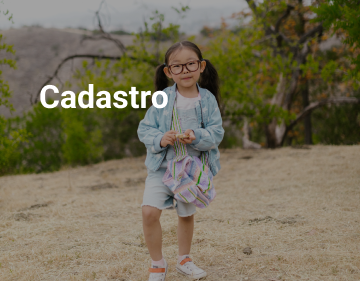
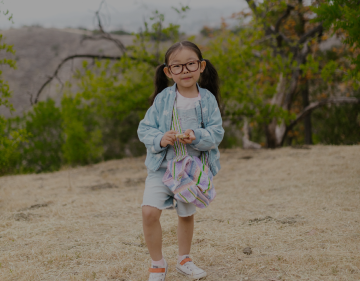
feature/create-navigation-between-screens

Changed region(s): [[0.0917, 0.2847, 0.4889, 0.3986]]

diff --git a/src/screens/Register/index.tsx b/src/screens/Register/index.tsx
@@ -3,21 +3,18 @@ import { Image, StyleSheet, View } from "react-native";
 import ButtonForm from "../../components/button";
 import CheckboxComponent from "../../components/checkbox/Index";
 
-const LoginScreen = ({ navigation }) => {
-  const goToRegister = () => {
-    navigation.navigate("Register");
-  };
+const RegisterScreen = () => {
   return (
     <View style={styles.container}>
       <View style={styles.sectionImage}>
         <Image
           style={styles.image}
-          source={require("../../assets/meninoComOculos.png")}
+          source={require("../../assets/meninaComOculos.png")}
         />
       </View>
       <View style={styles.sectionForm}>
         <View style={styles.form}>
-          <Text style={styles.tituloLogin}>Login</Text>
+          <Text style={styles.tituloLogin}>Cadastro</Text>
           <Input
             placeholder="seuemail@example.com"
             leftIcon={{ type: "ionicon", name: "mail-outline" }}
@@ -33,16 +30,14 @@ const LoginScreen = ({ navigation }) => {
           <ButtonForm name={"Enviar"} backgroundTheme={"primary"} />
           <View style={styles.textCadastrar}>
             <Text>Quer fazer parte da nossa comunidade?</Text>
-            <Text onPress={goToRegister} style={styles.linkCadastrar}>
-              CADASTRE-SE
-            </Text>
+            <Text style={styles.linkCadastrar}>CADASTRE-SE</Text>
           </View>
         </View>
       </View>
     </View>
   );
 };
-export default LoginScreen;
+export default RegisterScreen;
 
 const styles = StyleSheet.create({
   container: {

diff --git a/App.tsx b/App.tsx
@@ -1,16 +1,34 @@
 import { StatusBar } from "expo-status-bar";
 import React from "react";
 
-import { SafeAreaView, StyleSheet } from "react-native";
+import { NavigationContainer } from "@react-navigation/native";
+import { createNativeStackNavigator } from "@react-navigation/native-stack";
+import { StyleSheet } from "react-native";
+import LoginScreen from "./src/screens/login";
+import RegisterScreen from "./src/screens/Register";
 
-export default function App() {
+const Stack = createNativeStackNavigator();
+
+const App = () => {
   return (
-    <SafeAreaView style={styles.container}>
-      {/* <LoginScreen /> */}
-      <StatusBar style="auto" />
-    </SafeAreaView>
+    <NavigationContainer>
+      <Stack.Navigator initialRouteName="Login">
+        <Stack.Screen
+          name="Login"
+          component={LoginScreen}
+          options={{ headerShown: false }} // Oculta completamente a barra de navegação na tela de Login
+        />
+        <Stack.Screen
+          name="Register"
+          component={RegisterScreen}
+          options={{ headerShown: false }}
+        />
+      </Stack.Navigator>
+    </NavigationContainer>
   );
-}
+};
+
+export default App;
 
 const styles = StyleSheet.create({
   container: {

diff --git a/src/components/button/index.tsx b/src/components/button/index.tsx
@@ -1,6 +1,7 @@
+import { Button } from "@rneui/base";
+import { ButtonGroup } from "@rneui/themed";
 import React from "react";
-import { Touchable, TouchableOpacity } from "react-native";
-import { View, Text, Button, StyleSheet } from "react-native";
+import { StyleSheet, Text, TouchableOpacity, View } from "react-native";
 
 interface IProps {
   name: String;
@@ -8,9 +9,10 @@ interface IProps {
 }
 
 const ButtonForm = (props: IProps) => {
-  const name = props.name;
+  const { name, backgroundTheme } = props;
   const selectedStyle =
-    props.backgroundTheme === "primary" ? styles.primary : styles.secondary;
+    backgroundTheme === "primary" ? styles.primary : styles.secondary;
+
   return (
     <View style={styles.container}>
       <View style={styles.areaButton}>

diff --git a/src/components/input/index.tsx b/src/components/input/index.tsx
@@ -1,3 +1,4 @@
+import { Icon, Input } from "@rneui/base";
 import React from "react";
 import { StyleSheet, Text, View } from "react-native";
 
